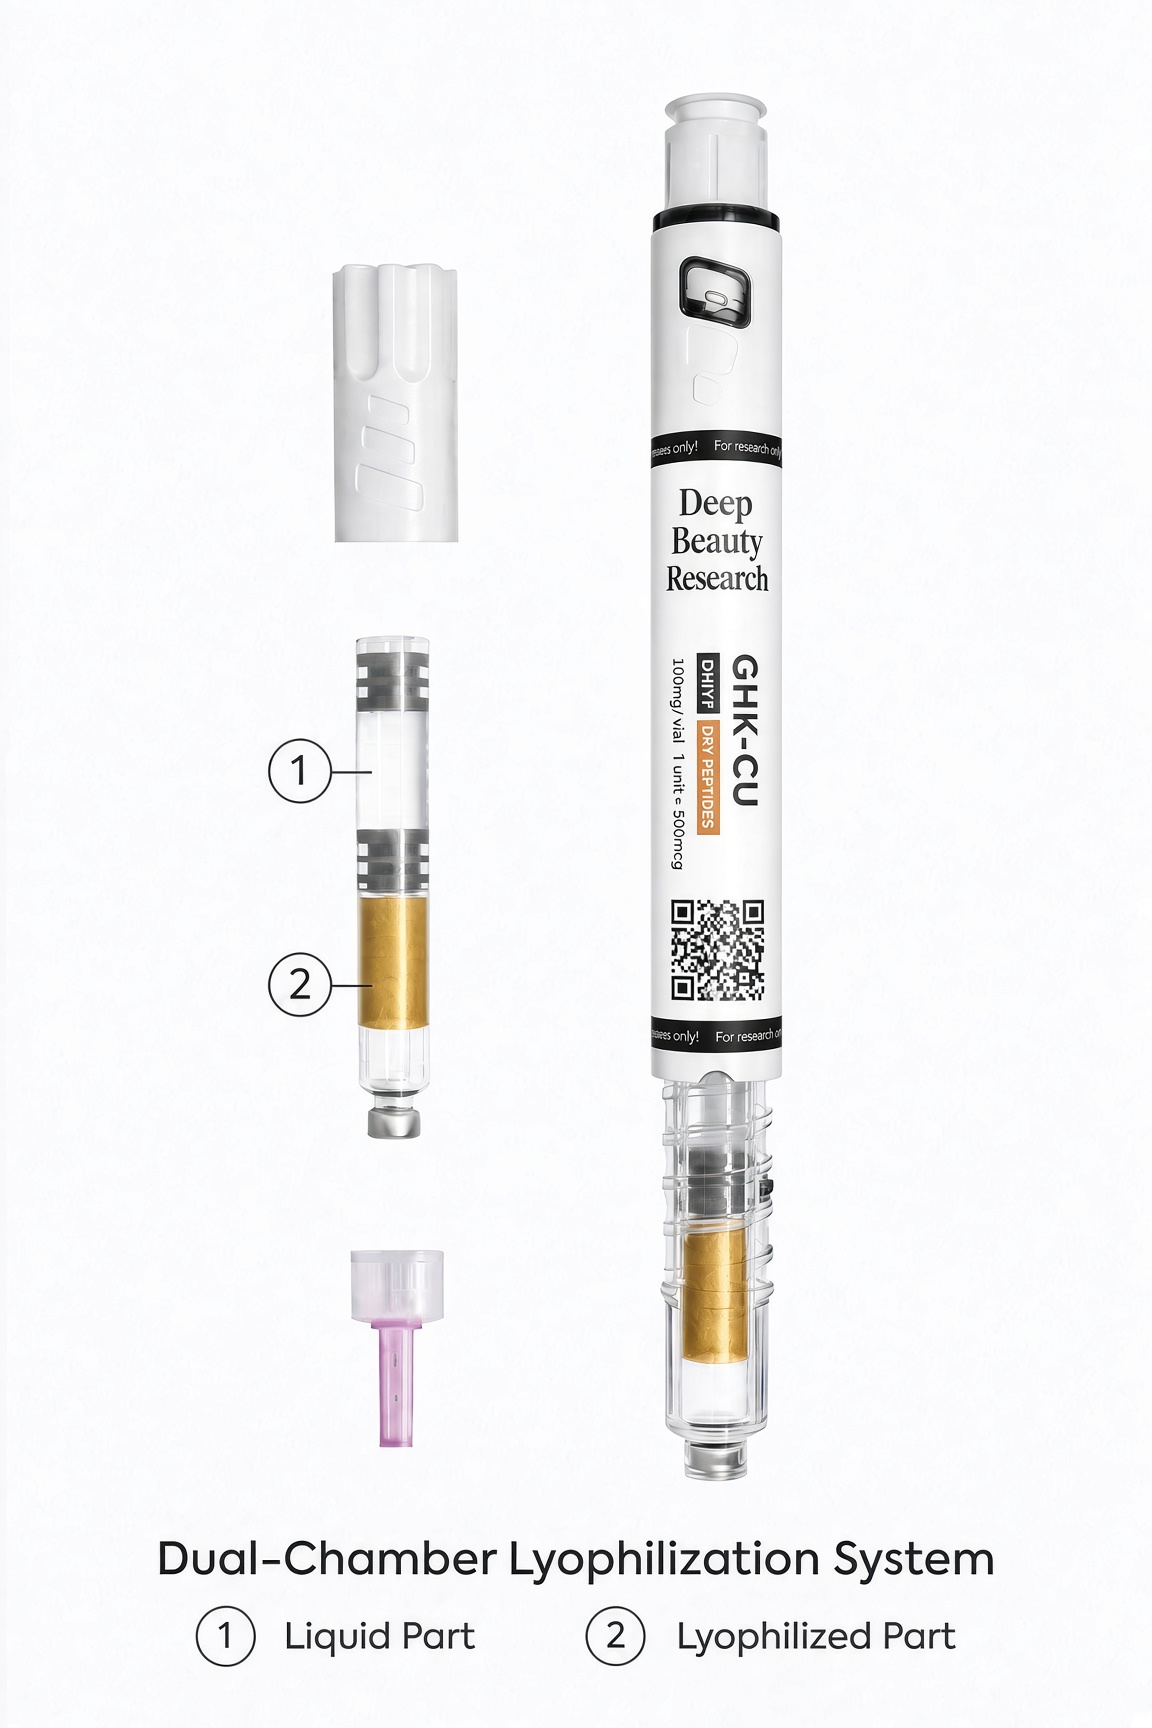
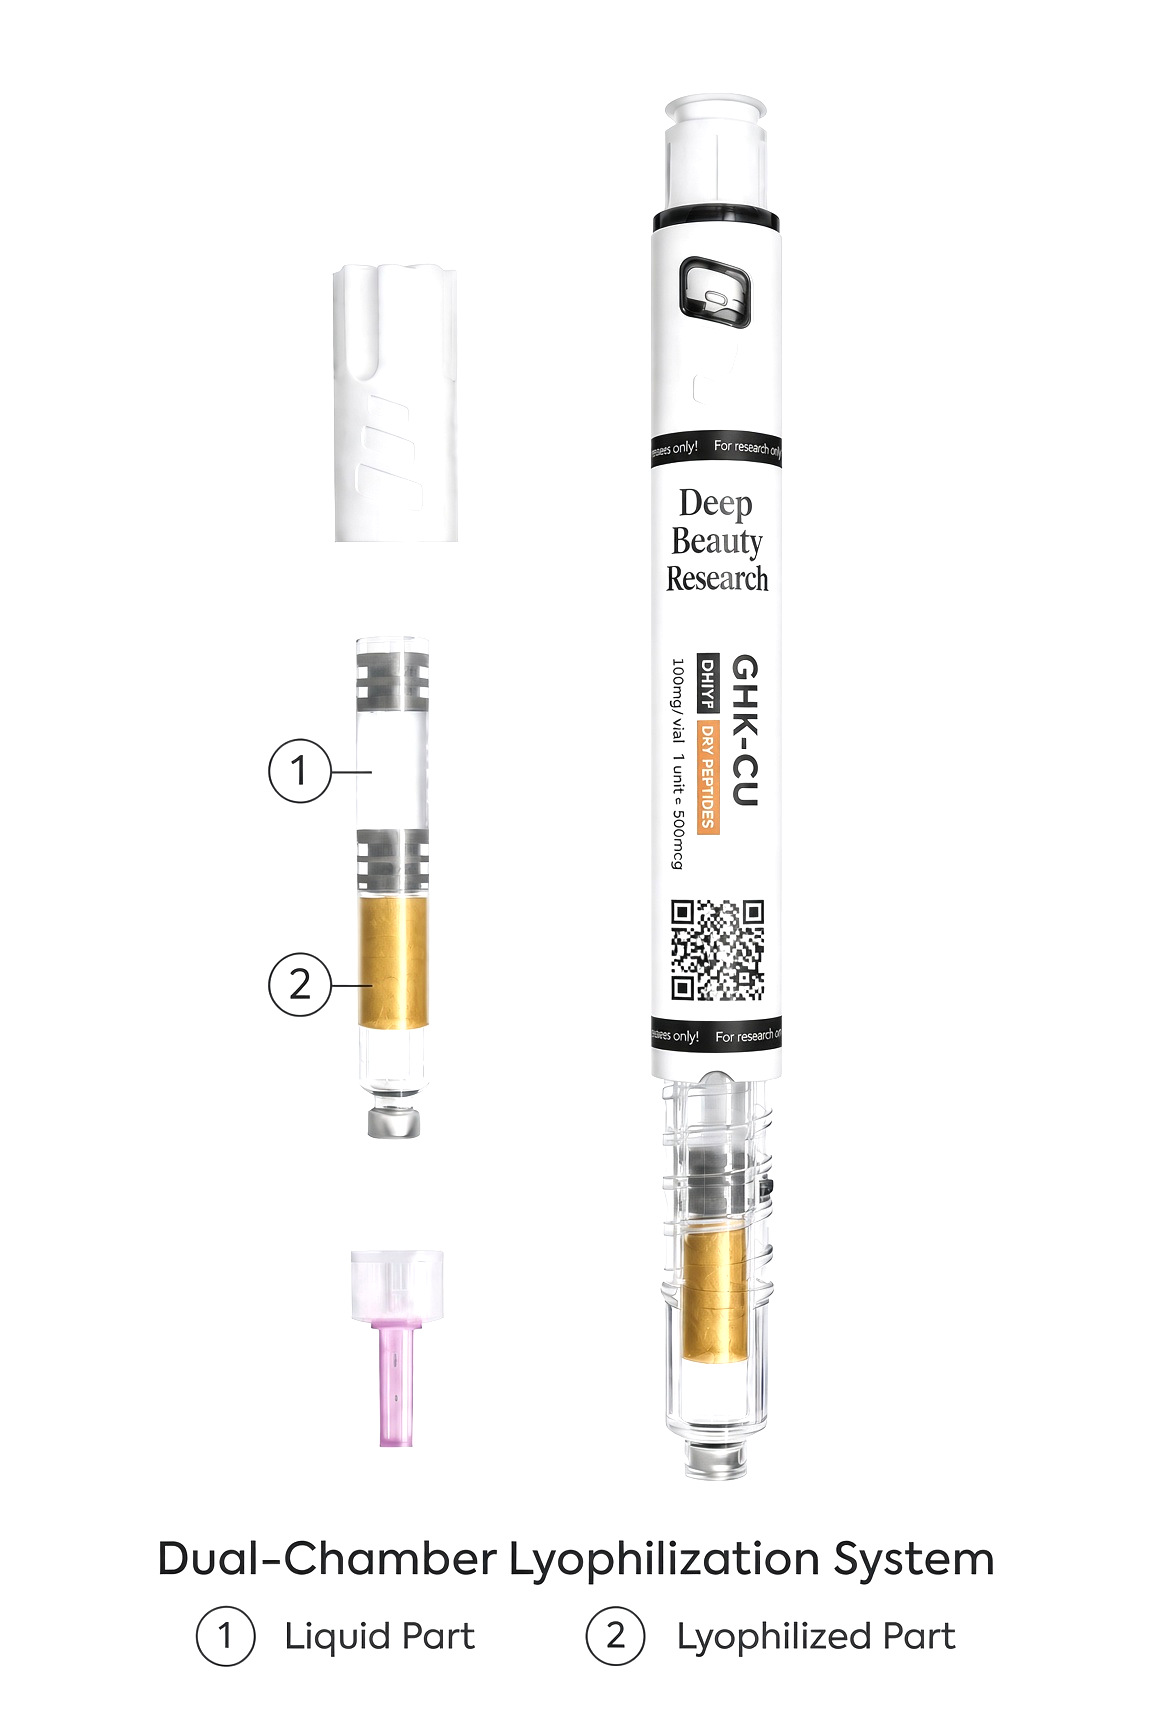
Gallery: full-height stage for portrait shots, one high-res chamber image for all pens, white grounds

diff --git a/src/views/pages/product/product-carousel.tsx b/src/views/pages/product/product-carousel.tsx
@@ -49,7 +49,7 @@ const ProductCarousel = ({ images, alt }: Props) => {
         <CarouselContent className='ml-0'>
           {images.map((src, index) => (
             <CarouselItem key={index} className='basis-full pl-0'>
-              <div className='flex h-80 items-center justify-center py-10 sm:h-112 sm:py-16 lg:h-136 lg:py-20'>
+              <div className='flex h-80 items-center justify-center py-5 sm:h-112 sm:py-6 lg:h-140 lg:py-8'>
                 <img
                   src={src}
                   alt={alt}
